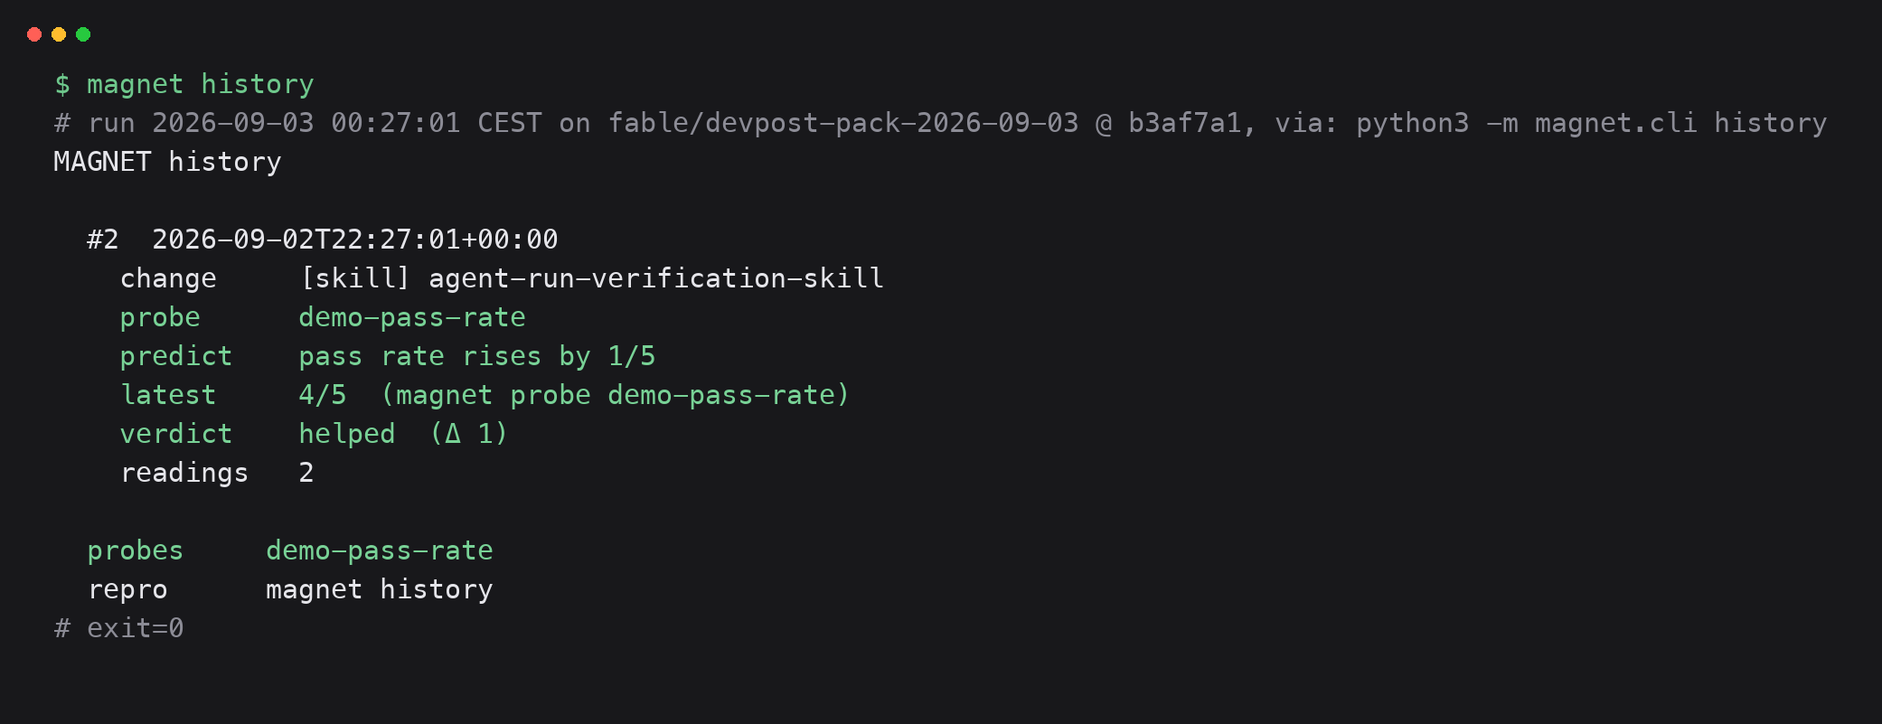
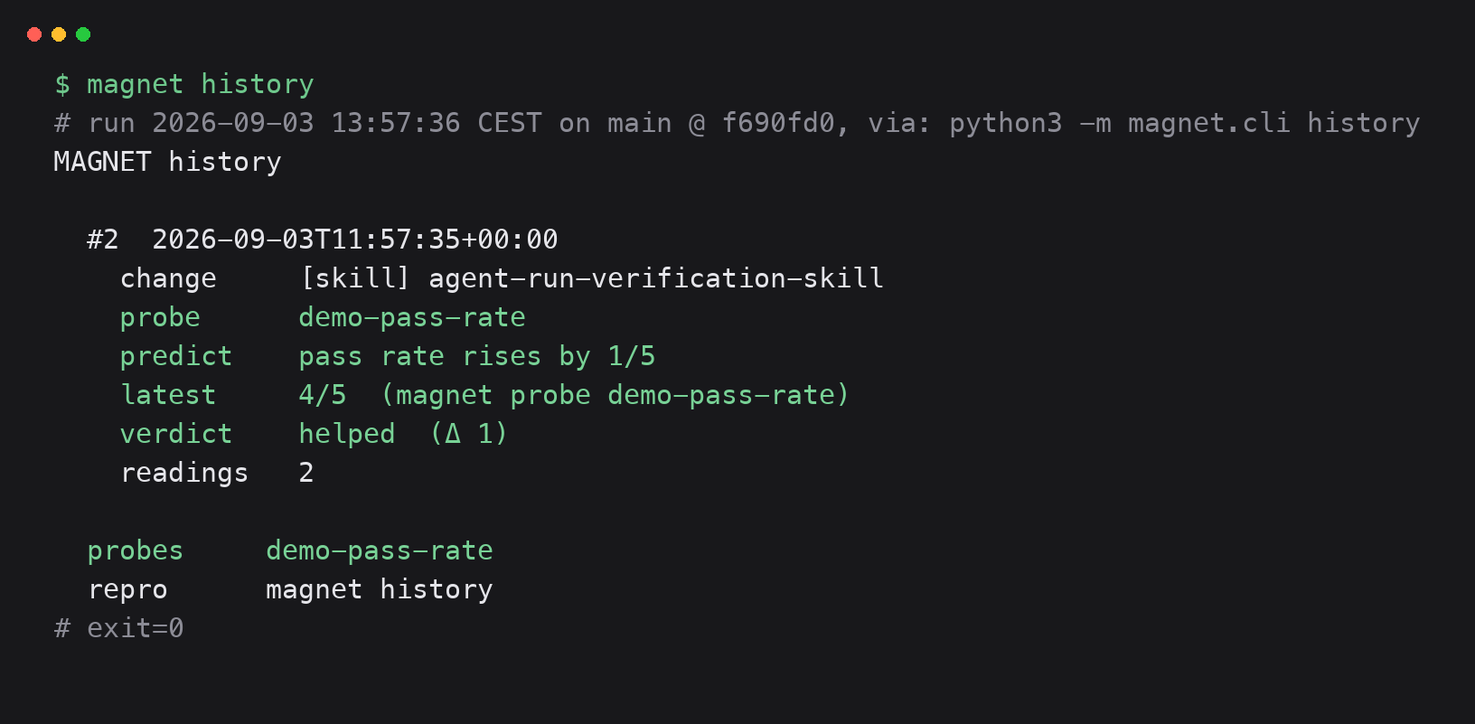
docs: Devpost description rewritten against the rubric with 3 Sep numbers; video shot list; screenshots re-captured on main @ f690fd0; README dev-extra drift from stranger pass
- docs/DEVPOST-DESCRIPTION.md: paste-ready, every number from a command run 2026-09-03 (112/112 -> 111/112 hurt -> 112/112 helped, 21 s; eval 3/5 vs 5/5 vs 1/5; 113 passed; Strands call sites by file and line; Bedrock receipt and SDK default model id)
- docs/VIDEO-SHOTLIST.md: 10 shots, 2:50, command and say-line per shot, local Kokoro voiceover as the free option
- docs/screenshots/*: all sidecars and PNGs re-captured on main @ f690fd0 (pytest.txt 113 passed, was 86 at b3af7a1)
- README.md: Verify section now installs the dev extra first; fresh clone with pip install -e . then pytest fails 5 tests (stranger pass 2026-09-03)
- DEVPOST-READY.md and OSCAR-CLICK-LIST: film pointers now name the one workflow and the shot list

Claude-Session: https://claude.ai/code/session_017vdH1a1Vm3kJHDLmafG5r1

diff --git a/docs/DEVPOST-DESCRIPTION.md b/docs/DEVPOST-DESCRIPTION.md
@@ -1,80 +1,16 @@
-# Devpost description · paste into submission form
+# Devpost description · paste-ready
 
-Copy sections below into Devpost. Trim if character limits hit.
+Every number below comes from a command run on 2026-09-03 on `main` @ f690fd0. The command is next to the number. Re-derive any of them with the command shown.
 
 ---
 
 ## Project name
 
-MAGNET — know if your agent change helped, or baseline
+MAGNET
 
----
+## Tagline
 
-## Elevator pitch (short)
-
-After you change a prompt, model, or skill, MAGNET's Strands agent re-runs your eval and prints `helped`, `hurt`, or **`baseline`** — never a trend from one reading.
-
----
-
-## About the project
-
-### The problem
-
-Professional developers change agent prompts, models, and skills constantly. After each change, they manually re-run evals and guess whether it helped. Most tools say `helped` after a single reading — that's optimism, not measurement.
-
-### Who it's for
-
-Developers running agentic coding stacks: Claude Code, Cursor, custom Strands agents. **Professional Agents** track.
-
-### Why it matters
-
-Without an adoption log and honest baselines, every "improvement" is vibes. Teams ship regressions with confidence. MAGNET is the eval runner and receipt printer for **your** stack — not a skill marketplace.
-
-### How it works
-
-MAGNET uses the **Strands Agents SDK** with four tools:
-
-1. **run_probe** — execute your eval, return value/pop + repro command  
-2. **record_week** — store readings in an in-repo SQLite log  
-3. **adopt_change** — log what you changed and what you predicted  
-4. **check_docs** — re-derive README numbers; exit non-zero on drift  
-
-After a change, the Strands agent re-runs the probe and prints `helped`, `hurt`, or **`baseline`** (fewer than two readings).
-
-### The embarrassing demo
-
-`magnet demo` deliberately shows naive `helped` on one reading while MAGNET says `baseline`. `magnet eval` includes a silent-null arm that beats naive on some scenarios. We ship what embarrasses us.
-
-### AWS
-
-Default mode uses a local scripted Strands model (no spend, CI-safe). Judges with AWS credentials can run:
-
-```bash
-magnet agent-run --model bedrock
-```
-
-See `docs/BEDROCK-JUDGE-GUIDE.md`.
-
-### Try it (judges)
-
-```bash
-git clone https://github.com/Morkeeth/agents-for-humans.git
-cd agents-for-humans
-bash scripts/judge-demo.sh
-```
-
-113 pytest tests · MIT license · no keys required for cold demo.
-
----
-
-## Built with
-
-- Python 3.10+
-- [Strands Agents SDK](https://github.com/strands-agents/sdk-python)
-- SQLite (in-repo adoption log)
-- Amazon Bedrock (optional live agent path)
-
----
+Change a prompt, model, or skill. MAGNET re-runs your eval and prints helped, hurt, or baseline.
 
 ## Track
 
@@ -82,6 +18,119 @@ Professional Agents
 
 ---
 
-## Link to companion work (optional footnote)
+## The problem
 
-Social layer for posting agent sessions (separate product, not this submission): [Agent Grinder](https://agentgrinder.vercel.app)
+Developers who run agents change their stack every day: a prompt line, a model, a skill, a hook. Nobody writes down what each change did. The number that would tell them (the eval score before and after) lives in a terminal that scrolled away.
+
+Two measured facts from this repo:
+
+1. The naive rule most people apply ("the score went up after my change, so it helped") is wrong on 2 of 5 scored scenarios. Command: `magnet eval`. Naive scores 3/5, MAGNET 5/5, a do-nothing baseline 1/5.
+2. Our own docs drifted within 13 hours. At 00:27 on 3 Sep the screenshot pack said 86 tests. At 13:57 the same day the suite had 113. Command: `magnet check-docs` (11 claims re-derived from source, all match after re-capture).
+
+A team lead who changed a prompt and has to justify it needs the before number, the after number, the command that produced both, and the prediction they made before looking. That is the whole product.
+
+## What MAGNET does
+
+MAGNET is an adoption log and eval runner for your own agent stack. You tell it what you changed and what you predict. It re-runs your eval (your pytest suite, your own probe command, or a built-in probe), stores the reading in a SQLite file inside the repo, and prints one of three words: `helped`, `hurt`, or `baseline`. It prints `baseline` when it has only one reading, because one reading is not a trend. Every reading carries the command that produced it, the population it is out of (`111/112`, never `111`), and the time it was read. A `check_docs` tool re-derives every number your README claims and exits non-zero when a doc and the source disagree. It is not a skill marketplace and it never ranks a change by its name.
+
+## The one workflow, real output
+
+Your eval is this repo's test suite. Two tests pin one rule in MAGNET's own system prompt: "never invent a trend from one reading". Drop the rule, the eval drops by one, MAGNET says `hurt`. Put it back, MAGNET says `helped`. Six commands, nothing simulated (`--no-simulate` on every call). Run on 2026-09-03 13:58 CEST, main @ f690fd0, 21 seconds wall clock. Full transcript: `docs/screenshots/one-workflow.txt`.
+
+```bash
+M="python3 -m magnet.cli --log .magnet/demo-one.db"
+
+# 1  baseline: run your eval once, unchanged
+$M record pytest-pass-rate
+#    recorded pytest-pass-rate: verdict=baseline readings=1
+
+# 2  the one prompt change: drop the rule from SYSTEM_PROMPT in magnet/tools.py
+sed -i '' 's/ — never invent a trend from one reading//' magnet/tools.py
+
+# 3  adopt the change, predict "unchanged": MAGNET re-runs the eval
+$M adopt prompt 'drop the never-invent rule from SYSTEM_PROMPT' 'pass rate unchanged' --probe pytest-pass-rate --no-simulate
+#    latest     111/112  (python3 -m pytest -q --tb=no -m "not slow")
+#    verdict    hurt  ↓ -1 vs prior
+
+# 4  put the rule back
+git checkout -- magnet/tools.py
+
+# 5  adopt the restore, predict "recovers by 1"
+$M adopt prompt 'restore the never-invent rule' 'pass rate recovers by 1' --probe pytest-pass-rate --no-simulate
+#    latest     112/112  (python3 -m pytest -q --tb=no -m "not slow")
+#    verdict    helped  ↑ +1 vs prior
+
+# 6  the log
+$M history
+```
+
+The three rows in the log, straight from SQLite (`select id, recorded_at, value, population, change_id from probe_readings`):
+
+```
+1|2026-09-03T11:58:00+00:00|112|112|
+2|2026-09-03T11:58:07+00:00|111|112|1
+3|2026-09-03T11:58:14+00:00|112|112|2
+```
+
+112 rather than 113 because one integration test is marked `slow` and the advertised probe command deselects it.
+
+## The A/B: helped, hurt, baseline
+
+| Step | Prediction made before looking | Reading | Verdict | Command |
+|---|---|---|---|---|
+| baseline | none | 112/112 | `baseline` (1 reading) | `magnet record pytest-pass-rate` |
+| drop the rule | "unchanged" | 111/112 | `hurt`, -1 vs prior | `magnet adopt prompt ... --probe pytest-pass-rate --no-simulate` |
+| restore the rule | "recovers by 1" | 112/112 | `helped`, +1 vs prior | same, second call |
+
+The first prediction was wrong. The log keeps the prediction next to what happened. That is the point: the author's guess and the measurement sit in the same row.
+
+Scored against ground truth on five scenarios (`magnet eval`): naive 3/5, MAGNET 5/5, silent baseline arm 1/5. The two naive misses are "one reading" (naive says `helped`, truth is `baseline`) and "unchanged" (naive says `helped`, truth is `unchanged`). We ship the arm that embarrasses us.
+
+## How it uses Strands Agents and Amazon Bedrock
+
+- Four tools carry the Strands `@tool` decorator: `run_probe_tool`, `record_week_tool`, `adopt_change_tool`, `check_docs_tool`. File: `magnet/tools.py`, function `build_strands_tools` (lines 115 to 171).
+- The agent is a real `strands.Agent` built in `magnet/tools.py`, function `create_agent` (lines 174 to 196): `Agent(tools=..., system_prompt=SYSTEM_PROMPT, callback_handler=None, model=...)`. The system prompt is the one the demo above edits.
+- `magnet agent-run` drives that agent. File: `magnet/agent_run.py`, function `run_strands_agent` (lines 106 to 160), which calls `create_agent(...)` and then `agent(AGENT_TASK)`. The SDK's own event loop builds the tool specs from the decorators, dispatches the tools, and feeds the results back until the turn ends. Today's run on main: 12 agent turns, 5 tool dispatches (run_probe, record_week, adopt_change, record_week, check_docs). Command: `magnet agent-run`.
+- Three model modes, and the mode is printed at the top of every run:
+  - `local` (default): a scripted provider, `magnet/local_model.py`, class `ScriptedLocalModel`, a real implementation of the Strands `Model` base class. No network, no credentials, no spend. The loop, tool registry and dispatch are the SDK's; the token generation is a fixed plan, not a language model.
+  - `bedrock`: the same agent with the Strands default model provider, Amazon Bedrock. A language model chooses the tools. Run live on 2026-09-02 from a developer machine in us-east-1: exit 0, 6 agent turns, 5 tool dispatches by the Strands event loop. Receipt: `docs/BEDROCK-LIVE-RECEIPT-2026-09-02.md`. The receipt does not record the model id; the code passes none, so the SDK default applies, which in the installed `strands-agents` 1.54.0 is the constant `DEFAULT_BEDROCK_MODEL_ID = "global.anthropic.claude-sonnet-4-6"` (command: `python3 -c "from strands.models.bedrock import DEFAULT_BEDROCK_MODEL_ID; print(DEFAULT_BEDROCK_MODEL_ID)"`). Judge guide: `docs/BEDROCK-JUDGE-GUIDE.md`.
+  - `none`: the four Python functions called in a fixed order, no agent. The fallback when no model is reachable. A failed agent mode prints a loud banner and marks the result `DEGRADED`; it never swaps silently.
+- Installed SDK: `strands-agents` 1.54.0 (`pip show strands-agents`). Dependency declared in `pyproject.toml`.
+
+Which commands go through the agent: `magnet agent-run` only. `magnet record`, `magnet adopt`, `magnet history`, `magnet probe` and `magnet check-docs` call the same four tool functions directly from the CLI, without a model in the loop. The six-command workflow above is therefore deterministic and reproducible; the agent path is the same tools with a model choosing the order.
+
+## Honest limits
+
+- The default agent mode does not prove a language model chose the tool sequence. Only `--model bedrock` does, and that needs AWS credentials and costs money, so it never runs in CI. It was run once, on 2026-09-02, and the receipt is in the repo.
+- In that Bedrock run, `check_docs_tool` logged `failed to parse tool input json` once. The run still completed with exit 0. Recorded in the receipt under "WRONG".
+- `magnet demo` and `magnet agent-run` place their second reading in a simulated following week so a single run can show a two-reading verdict. Every such reading is labelled `SIMULATED` on screen. The six-command workflow above uses no simulation.
+- `pytest` is in the `[dev]` extra. A fresh clone that runs `pip install -e .` and then `pytest` gets 5 failures (the tests that spawn the verification scripts) because the virtualenv has no pytest module; `pip install -e ".[dev]"` fixes it and the suite is green: 113 passed (command: `python3 -m pytest -q`, 2026-09-03, fresh clone in a Python 3.12.5 virtualenv). Found by the stranger pass today; the README now says so.
+- If pytest is missing, `magnet probe pytest-pass-rate` prints `pytest-pass-rate: None` and exits 0. It should exit non-zero. Not fixed before submission.
+- The stack inventory (`magnet stack`, `magnet bakeoff`) runs against a fixture stack shipped in the repo, not against a live machine, so a judge sees the same numbers we do.
+- One user so far: the author. The log format and the probe registry are the only surfaces designed for a second team.
+
+## Try it (no keys, about 60 seconds)
+
+```bash
+git clone https://github.com/Morkeeth/agents-for-humans.git
+cd agents-for-humans
+python3 -m venv .venv && source .venv/bin/activate
+pip install -e ".[dev]"
+bash scripts/judge-demo.sh
+```
+
+Stranger pass, 2026-09-03, fresh clone of main @ f690fd0 in a Python 3.12.5 virtualenv: 24 commands, 23 exit 0, 1 exit 1 (the `pytest` before the dev extra, above). `bash scripts/judge-demo.sh` printed `JUDGE DEMO OK`.
+
+## Built with
+
+- Python 3.10+
+- Strands Agents SDK (`strands-agents` 1.54.0)
+- Amazon Bedrock (optional live model path)
+- SQLite (in-repo log at `.magnet/log.db`)
+- pytest (the eval in the demo)
+
+## Links
+
+- Repo: https://github.com/Morkeeth/agents-for-humans (MIT)
+- Architecture diagram: `docs/architecture.md`
+- One-workflow transcript and screenshots: `docs/screenshots/`

diff --git a/docs/VIDEO-SHOTLIST.md b/docs/VIDEO-SHOTLIST.md
@@ -1,0 +1,64 @@
+# Video shot list · MAGNET · 2 min 50 s
+
+One workflow on screen, then the Strands loop, then the drift gate. Every number below was produced on 2026-09-03 on `main` @ f690fd0; the transcript is `docs/screenshots/one-workflow.txt`. Devpost allows 5 minutes; this list uses 2:50 so nothing is rushed.
+
+The judging criteria this list serves, quoted from the Devpost rules: "Does the video clearly demonstrate the project working end-to-end? Does the pitch communicate what problem is solved, who it's for, and why it matters?" and "How thoroughly and skillfully does the project use Strands Agents?"
+
+## Before recording (2 minutes, once)
+
+```bash
+cd ~/CODE/agents-for-humans
+git status --short          # must be empty (stash hack.md if it is dirty)
+git rev-parse --short HEAD  # say this hash if you want; f690fd0 or later
+rm -f .magnet/demo-one.db   # clean log so the first reading is reading 1
+python3 -m magnet.cli probe pytest-pass-rate   # warms the pytest cache; expect 112/112
+clear
+```
+
+- Terminal: dark background, monospaced font 18 pt or larger, window about 110 columns wide so the `latest` line does not wrap.
+- Define the alias once, off camera, so each command is short on screen: `M="python3 -m magnet.cli --log .magnet/demo-one.db"`.
+- Each pytest run takes about 7 s. Do not cut it; say the line while it runs.
+- Do not show `magnet demo` (it uses a labelled simulated week). Do not say a percentage. The numbers to say are `112 of 112`, `111 of 112`, `112 of 112`.
+
+## Shots
+
+| # | Time | On screen | Command | Say |
+|---|---|---|---|---|
+| 1 | 0:00 to 0:15 | Empty terminal, repo root | (none) | "You change a prompt, a model, or a skill in your agent stack, and the eval number that would tell you what it did scrolls away. MAGNET keeps that number, with the command that made it, next to what you predicted." |
+| 2 | 0:15 to 0:35 | `magnet eval` table | `python3 -m magnet.cli eval` | "The usual rule is: score went up, so it helped. Scored against ground truth on five scenarios, that rule is wrong on 2 of 5. MAGNET gets 5 of 5. The do-nothing arm gets 1 of 5. We ship all three arms." |
+| 3 | 0:35 to 0:50 | one line: `recorded pytest-pass-rate: verdict=baseline readings=1` | `$M record pytest-pass-rate` | "My eval is this repo's test suite. Baseline first: 112 of 112. One reading, so MAGNET says baseline. It will not call a trend from one number." |
+| 4 | 0:50 to 1:05 | the diff, two lines | `sed -i '' 's/ — never invent a trend from one reading//' magnet/tools.py` then `git diff magnet/tools.py` | "The change: I drop one rule from MAGNET's own system prompt, the line that says never invent a trend from one reading." |
+| 5 | 1:05 to 1:25 | the adopt receipt with `latest 111/112` and `verdict hurt` | `$M adopt prompt 'drop the never-invent rule from SYSTEM_PROMPT' 'pass rate unchanged' --probe pytest-pass-rate --no-simulate` | Say before pressing enter: "I predict unchanged." While pytest runs: "MAGNET re-runs the suite." When the receipt prints: "111 of 112. Hurt, minus 1 versus prior. My prediction was wrong, and the log keeps both." |
+| 6 | 1:25 to 1:45 | the second receipt with `latest 112/112` and `verdict helped` | `git checkout -- magnet/tools.py` then `$M adopt prompt 'restore the never-invent rule' 'pass rate recovers by 1' --probe pytest-pass-rate --no-simulate` | "Put the rule back. Prediction: recovers by 1. 112 of 112. Helped, plus 1. Every reading shows the command that produced it and the population it is out of." |
+| 7 | 1:45 to 2:00 | `magnet history`, two rows | `$M history` | "The log. Row 1: predicted unchanged, got hurt. Row 2: predicted plus 1, got helped. This is what a team lead pastes when asked why a prompt changed." |
+| 8 | 2:00 to 2:25 | `MODE:` line, `agent turns 12`, `tools dispatched 5`, the five tool names | `python3 -m magnet.cli agent-run` | "The same four tools run under a real Strands Agent. The SDK builds the tool specs from the decorators, dispatches five calls, and feeds the results back. This mode uses a local scripted model: no keys, no spend, and it says so on screen." |
+| 9 | 2:25 to 2:40 | the Bedrock receipt, top 30 lines | `head -30 docs/BEDROCK-LIVE-RECEIPT-2026-09-02.md` | "With AWS credentials the same loop runs on Amazon Bedrock and the model chooses the tools. We ran it once, 2 September, exit 0, five tools dispatched. The receipt is in the repo, including the one parse warning it logged." |
+| 10 | 2:40 to 2:50 | `11 claims checked. All match source.` | `python3 -m magnet.cli check-docs` | "Last, the drift gate: every number the docs claim is re-derived from source, 11 claims, and the build fails when one drifts. MAGNET. github.com/Morkeeth/agents-for-humans. MIT." |
+
+Optional shot 9b, only if AWS credentials are on the machine and spend is acceptable: replace shot 9 with a live `python3 -m magnet.cli agent-run --model bedrock` (about 15 s, costs money). If it fails, keep shot 9 as written; never imply Bedrock ran when it did not.
+
+## What must be visible in the frame
+
+- Shot 5 and 6: the `latest` line with the population (`111/112`), the `verdict` line, and the `repro` line. These three lines are the product.
+- Shot 8: the `MODE:` line at the top. It is the honesty claim for the Strands criterion.
+- Shot 10: the exit line. Say "exit 0" only if the terminal shows it (`echo $?`).
+
+## Voiceover, optional and free
+
+A local text-to-speech tool exists at `~/CODE/voice-generation` (Kokoro-82M, runs on CPU, no key, nothing leaves the machine). It is the checked option before any paid service. To render the say-lines above as one track:
+
+1. Save the say-lines as a script file, one spoken line per line. Format from that repo's README: directives such as `@voice bm_george`, `@lang b`, `@speed 1.0`, `@pause 400` at the top; a blank line adds one pause.
+2. Render:
+
+```bash
+cd ~/CODE/voice-generation
+./kvenv/bin/python vo.py /path/to/magnet-vo.txt -o renders/magnet-vo.mp3 --preset demo
+```
+
+The `demo` preset is tuned to sit under a screen capture. Recording your own voice over the live terminal is the simpler path and reads as more real; the tool is there if a second take is faster to type than to say.
+
+## Ready state
+
+- Commands: run today, exit 0, transcript in `docs/screenshots/one-workflow.txt`, still frames in `docs/screenshots/one-workflow.png`, `agent-run.png`, `eval.png`, `history.png`.
+- Paste text for the Devpost form: `docs/DEVPOST-DESCRIPTION.md`.
+- Architecture diagram (required by the rules): `docs/architecture.md`.

diff --git a/docs/screenshots/README.md b/docs/screenshots/README.md
@@ -1,15 +1,15 @@
-# Screenshots · captured 2026-09-03 00:27 CEST on fable/devpost-pack-2026-09-03 @ b3af7a1
+# Screenshots · captured 2026-09-03 13:57 to 13:58 CEST on main @ f690fd0
 
-Every `.png` is rendered from the `.txt` beside it by `scripts/render-screenshot.py` (Menlo 30 px on a dark ground, nothing edited). Each `.txt` opens with the command that produced it and the time, branch and interpreter it ran under. Re-derive any of them: run the first line of the `.txt`, then `python3 scripts/render-screenshot.py <txt> <png>`.
+Every `.png` is rendered from the `.txt` beside it by `scripts/render-screenshot.py` (Menlo 30 px on a dark ground, nothing edited). Each `.txt` opens with the command that produced it and the time, branch and interpreter it ran under, and closes with `# exit=N`. Re-derive any of them: run the first line of the `.txt`, then `python3 scripts/render-screenshot.py <txt> <png>`.
 
 | Devpost slot | file | caption |
 |---|---|---|
-| 1 required | `demo.png` | MAGNET refuses to trend on one reading (naive `helped` vs magnet `baseline`) |
-| 2 required | `eval.png` | We ship the baseline arm that embarrasses us (naive 3/5 · magnet 5/5 · silent_null 1/5) |
-| 3 required | `agent-run.png` | Real Strands Agents SDK — 5 tools dispatched by the event loop, SQLite log |
-| what to demonstrate | `one-workflow.png` | Change one prompt → MAGNET re-runs your eval → 85/85 → 84/85 hurt → 85/85 helped, 24 s |
-| optional | `history.png` | Adoption log |
+| 1 required | `one-workflow.png` | Change one prompt, MAGNET re-runs your eval: 112/112 baseline, 111/112 hurt (-1), 112/112 helped (+1), 21 s wall clock, nothing simulated |
+| 2 required | `agent-run.png` | Real Strands Agents SDK: 12 agent turns, 5 tools dispatched by the event loop, local scripted model, mode printed on screen |
+| 3 required | `eval.png` | Scored against ground truth on 5 scenarios: naive 3/5, magnet 5/5, silent_null 1/5 |
+| optional | `demo.png` | MAGNET refuses to trend on one reading (naive `helped` vs magnet `baseline`); week 2 labelled SIMULATED |
+| optional | `history.png` | Adoption log after `magnet agent-run` |
 
-Sidecars without a PNG: `list-probes.txt`, `check-docs.txt` (11 claims, all match), `drift-demo.txt`, `probe-pytest-pass-rate.txt` (85/85), `pytest.txt` (86 passed).
+Sidecars without a PNG: `list-probes.txt`, `check-docs.txt` (11 claims, all match), `drift-demo.txt` (fake repo 2 drifts exit 1, this repo 0 drifts exit 0), `probe-pytest-pass-rate.txt` (112/112; one test marked `slow` is deselected by the probe command), `pytest.txt` (113 passed, full suite, `python3 -m pytest -q`).
 
-Not done in this pass (close-down 02:4x): DEVPOST-READY.md and DEVPOST-DESCRIPTION.md still carry their pre-existing prose; their test counts already re-derive (`magnet check-docs` passes) but "What to demonstrate" still lists five commands instead of the one workflow, and the Strands proof section does not yet cite `magnet/tools.py:174-183` (`from strands import Agent` / `Agent(tools=…)`), `magnet/agent_run.py:131-132` (`create_agent` → `agent(AGENT_TASK)`), or `docs/BEDROCK-LIVE-RECEIPT-2026-09-02.md`. No bakeoff figures exist on this branch; they live on `cursor/stack-magnet-bakeoff-5608`.
+Companion text: `docs/DEVPOST-DESCRIPTION.md` (paste-ready, same numbers), `docs/VIDEO-SHOTLIST.md` (what to record, in what order), `docs/DEMO-ONE-WORKFLOW.md` (the six commands with the pasted output of an earlier run; the counts there are from 2 Sep and are superseded by `one-workflow.txt`).

diff --git a/docs/OSCAR-CLICK-LIST-2026-09-02.md b/docs/OSCAR-CLICK-LIST-2026-09-02.md
@@ -7,8 +7,8 @@ Cloud/IDE cannot do these. Check off in order.
 ## Before film
 
 - [ ] `git pull` on `agents-for-humans` · `bash scripts/stranger-pass.sh` → OK
-- [ ] Read `docs/FILM-SCOUT-COMMANDS.md` · terminal font large enough for video
-- [ ] Capture 3 screenshots per `docs/DEVPOST-READY.md` table
+- [ ] Read `docs/VIDEO-SHOTLIST.md` (one workflow, 2 to 3 min) · terminal font large enough for video
+- [ ] Screenshots already captured on main @ f690fd0: `docs/screenshots/` (see its README)
 
 ---
 
@@ -16,7 +16,7 @@ Cloud/IDE cannot do these. Check off in order.
 
 - [ ] [AWS Builder ID](https://builder.aws.com/) — required on Devpost submission
 - [ ] Devpost draft shell: https://agentsforhumans.devpost.com/
-- [ ] Paste from `docs/DEVPOST-READY.md` (tagline, description, architecture)
+- [ ] Paste from `docs/DEVPOST-DESCRIPTION.md` (paste-ready, numbers from 2026-09-03)
 - [ ] Set track: **Professional Agents**
 - [ ] Public repo URL: `https://github.com/Morkeeth/agents-for-humans`
 - [ ] MIT license visible in GitHub About section
@@ -25,7 +25,7 @@ Cloud/IDE cannot do these. Check off in order.
 
 ## Video (≤5 min)
 
-- [ ] Record from `docs/FILM-SCOUT-COMMANDS.md`
+- [ ] Record from `docs/VIDEO-SHOTLIST.md`
 - [ ] Cover: problem · who · why · working demo end-to-end
 - [ ] Upload to Devpost before deadline
 

diff --git a/docs/DEVPOST-READY.md b/docs/DEVPOST-READY.md
@@ -34,17 +34,11 @@
 
 ---
 
-## What to demonstrate (5 min video)
+## What to demonstrate (video, 2 to 3 min)
 
-1. `magnet demo` — naive says `helped` on 1 reading; MAGNET says `baseline`
-2. `magnet eval` — silent null beats naive arm
-3. `magnet agent-run` — real Strands tool dispatch (4 tools)
-4. `magnet check-docs` — README drift caught
-5. `magnet adopt` + `magnet history` — adoption timeline
+One workflow, nothing else on screen: change a prompt, MAGNET re-runs your eval, reads `hurt` then `helped`. Six commands, 21 s of wall clock on main @ f690fd0 (2026-09-03): `112/112 → 111/112 hurt → 112/112 helped`. Then `magnet agent-run` for the Strands loop.
 
-See `docs/FILM-SCOUT-COMMANDS.md` for copy-paste blocks.
-
----
+Shot list with timestamps, commands and say-lines: `docs/VIDEO-SHOTLIST.md`. Commands and pasted output: `docs/DEMO-ONE-WORKFLOW.md`. Do not show `magnet demo` in the video (it uses a labelled simulated week).
 
 ## Architecture
 

diff --git a/README.md b/README.md
@@ -69,6 +69,7 @@ The log lives in-repo at `.magnet/log.db` — not Helicon-only.
 ## Verify
 
 ```bash
+pip install -e ".[dev]"   # pytest lives in the dev extra; without it `pytest` fails 5 tests
 pytest
 magnet check-docs
 magnet drift-demo   # live Qwen lesson: fake repo fails, real repo passes
